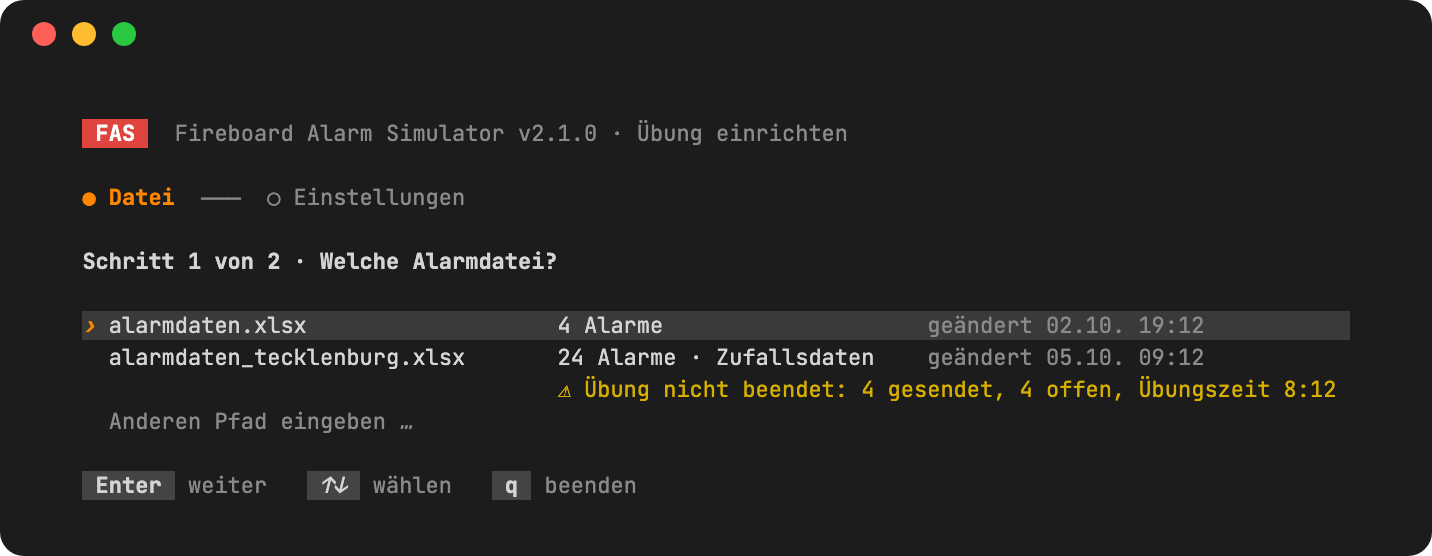
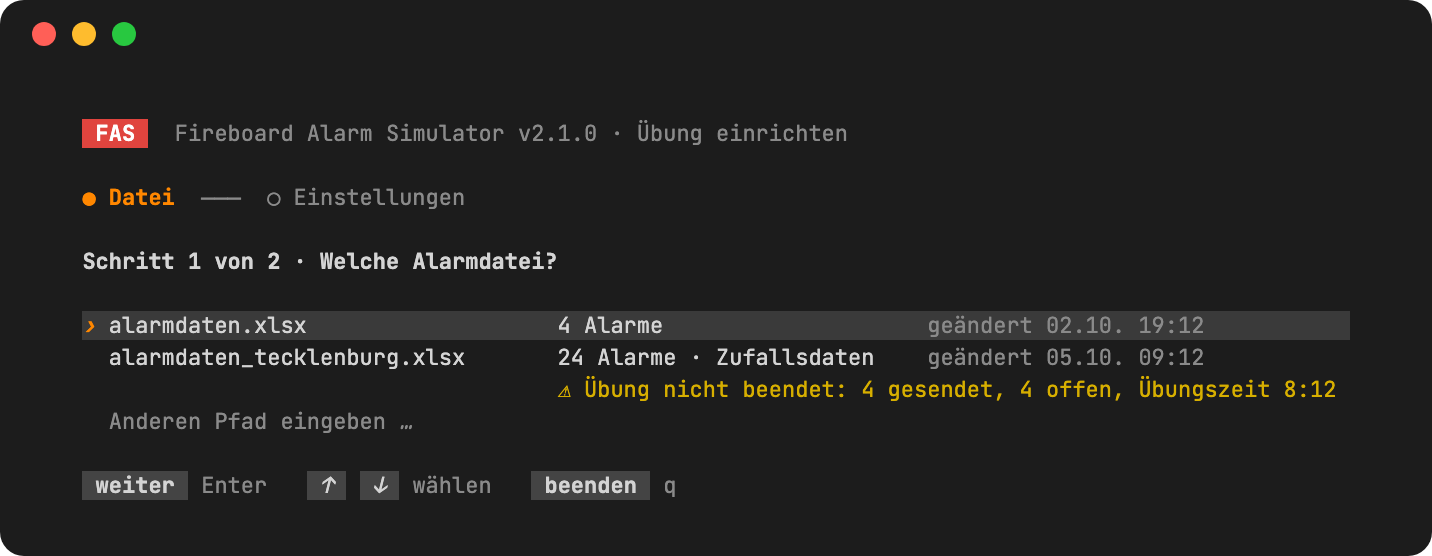
README aktualisiert

Changed region(s): [[0.2151, 0.8255, 0.4916, 0.9173], [0.0615, 0.8561, 0.1844, 0.9173]]

diff --git a/index.html b/index.html
@@ -111,7 +111,7 @@ Eure Führungskräfte arbeiten sie in Fireboard ab wie echte Einsätze.
 
 <p class="small">
 <span class="badge beta">Beta</span>
-<a href="https://github.com/kventil/fireboard-alarm-simulator-releases/releases/tag/v2.1.0-beta.3">Vorabversion 2.1.0-beta.3</a>
+<a href="https://github.com/kventil/fireboard-alarm-simulator-releases/releases/tag/v2.1.0-beta.4">Vorabversion 2.1.0-beta.4</a>
 nur zum Testen, nicht für Übungen – <a href="#versionen">was ist neu?</a>
 </p>
 
@@ -331,7 +331,7 @@ Versionen. Alle Downloads stehen auf der <a href="https://github.com/kventil/fir
 
 <section class="beta">
 
-<h3><a href="https://github.com/kventil/fireboard-alarm-simulator-releases/releases/tag/v2.1.0-beta.3">2.1.0-beta.3</a> <span class="badge beta">Beta · nur zum Testen</span> <span class="date">7. Oktober 2026</span></h3>
+<h3><a href="https://github.com/kventil/fireboard-alarm-simulator-releases/releases/tag/v2.1.0-beta.4">2.1.0-beta.4</a> <span class="badge beta">Beta · nur zum Testen</span> <span class="date">7. Oktober 2026</span></h3>
 <p>
 <b>Vorabversion, noch nicht fertig getestet.</b> Für Übungen bitte die
 aktuelle Version 2.0.0 verwenden. Wer die Neuerungen ausprobiert:
@@ -344,6 +344,9 @@ Rückmeldungen gern über <a href="#feedback">Feedback</a>.
     zuletzt passiert ist. In kleinen Fenstern zeigt <kbd>i</kbd> alle Details.
     Unten stehen nur die Tasten, die gerade passen; Löschen mit <kbd>d</kbd>
     fragt einmal nach.</li>
+  <li><b>Maus:</b> Einsätze, Einstellungen und alle Schaltflächen lassen sich
+    anklicken, das Mausrad blättert. Senden, Lage-Update und Schließen fragen
+    per Klick in einem kleinen Fenster nach, bevor etwas rausgeht.</li>
   <li><b>Startbildschirm:</b> zeigt die Schritte, das Änderungsdatum der
     Excel-Listen und eine nicht beendete Übung direkt in der Liste. Dateien
     lassen sich mit der Maus wählen; beim AuthKey sind Länge und die letzten
@@ -369,8 +372,8 @@ Rückmeldungen gern über <a href="#feedback">Feedback</a>.
     Start. Sie enthält keinen AuthKey und hilft bei der Fehlersuche.</li>
 </ul>
 <p class="small">
-Seit <a href="https://github.com/kventil/fireboard-alarm-simulator-releases/releases/tag/v2.1.0-beta.2">beta.2</a> (3. Oktober): die neue
-Übungsansicht und der überarbeitete Startbildschirm (die ersten beiden Punkte).
+Seit <a href="https://github.com/kventil/fireboard-alarm-simulator-releases/releases/tag/v2.1.0-beta.3">beta.3</a> (heute früher): Bedienung mit der
+Maus. Nach dem Beenden steht eine kurze Zusammenfassung im Fenster.
 </p>
 
 </section>

diff --git a/remote/version.js b/remote/version.js
@@ -1,2 +1,2 @@
 // Version of the control page, set when publishing.
-export const PAGE_VERSION = "2.1.0-beta.3";
+export const PAGE_VERSION = "2.1.0-beta.4";

diff --git a/README.md b/README.md
@@ -90,7 +90,7 @@ erscheint dann hier. Oder die Datei direkt **auf `fas.exe` ziehen**.
 ### 3. Einstellungen
 
 Mit `↑` `↓` zwischen den Zeilen wechseln, mit `←` `→` oder der Leertaste die
-Auswahl ändern. Zahlen einfach eintippen. Unter den Einstellungen steht, was
+Auswahl ändern – oder die gewünschte Option mit der Maus anklicken. Zahlen einfach eintippen. Unter den Einstellungen steht, was
 die gewählte Zeile bewirkt.
 
 ![Startbildschirm: Einstellungen](docs/images/start-einstellungen.png)
@@ -169,6 +169,17 @@ mehr (siehe [AuthKey speichern](#authkey-speichern)).
 | `q` | beenden |
 
 `Esc` bricht eine Rückfrage (`d`, `C`) ab, ohne zu beenden.
+
+**Mit der Maus:** Ein Klick wählt einen Einsatz, das Mausrad blättert. Ein
+zweiter Klick auf den ausgewählten Einsatz öffnet ein Fenster mit den passenden
+Aktionen (senden, Lage-Update, schließen, löschen) – ausgeführt wird erst, wenn
+du dort eine Schaltfläche anklickst. Auch die Schaltflächen ganz unten lassen
+sich anklicken; *senden*, *Lage-Update* und *schließen* öffnen dabei zuerst
+dieses Fenster, *beenden* fragt noch einmal nach. Zum Markieren und Kopieren von
+Text die Umschalttaste (Windows) bzw. die Wahltaste ⌥ (Mac) gedrückt halten.
+
+Nach dem Beenden steht im Fenster eine kurze Zusammenfassung: wie viele Alarme
+gesendet wurden und wo das Protokoll liegt.
 
 ---
 
